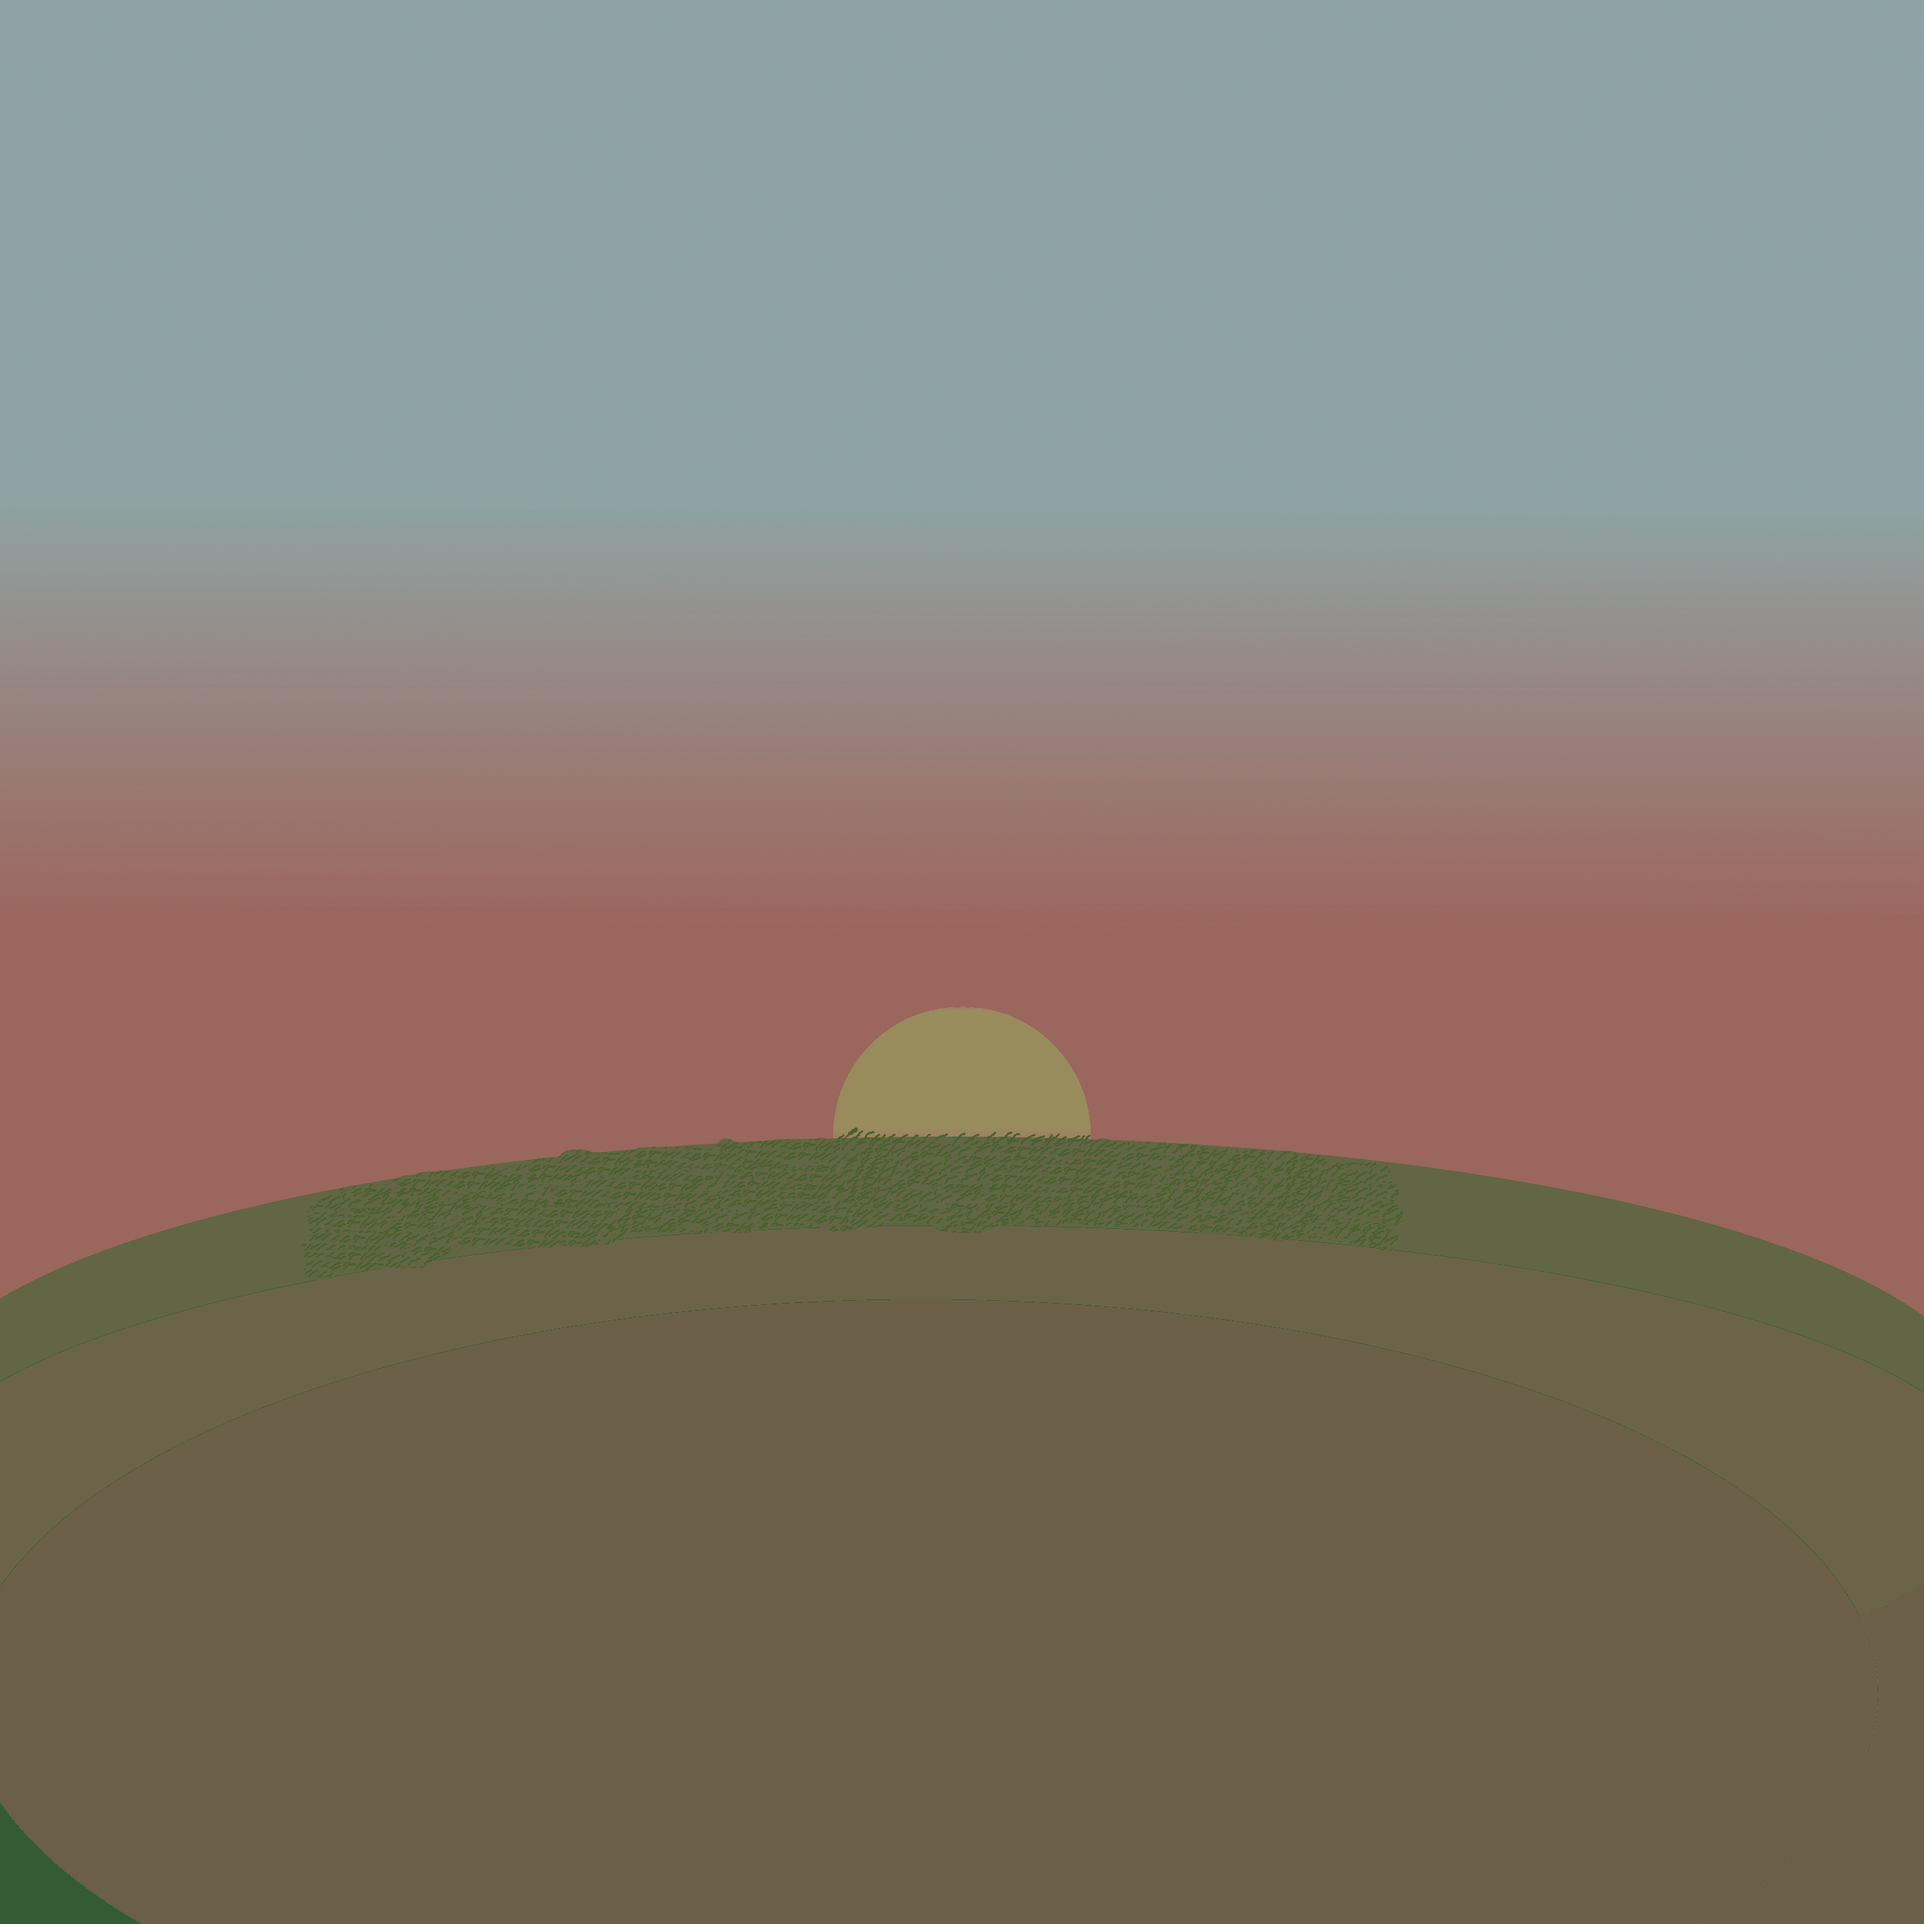
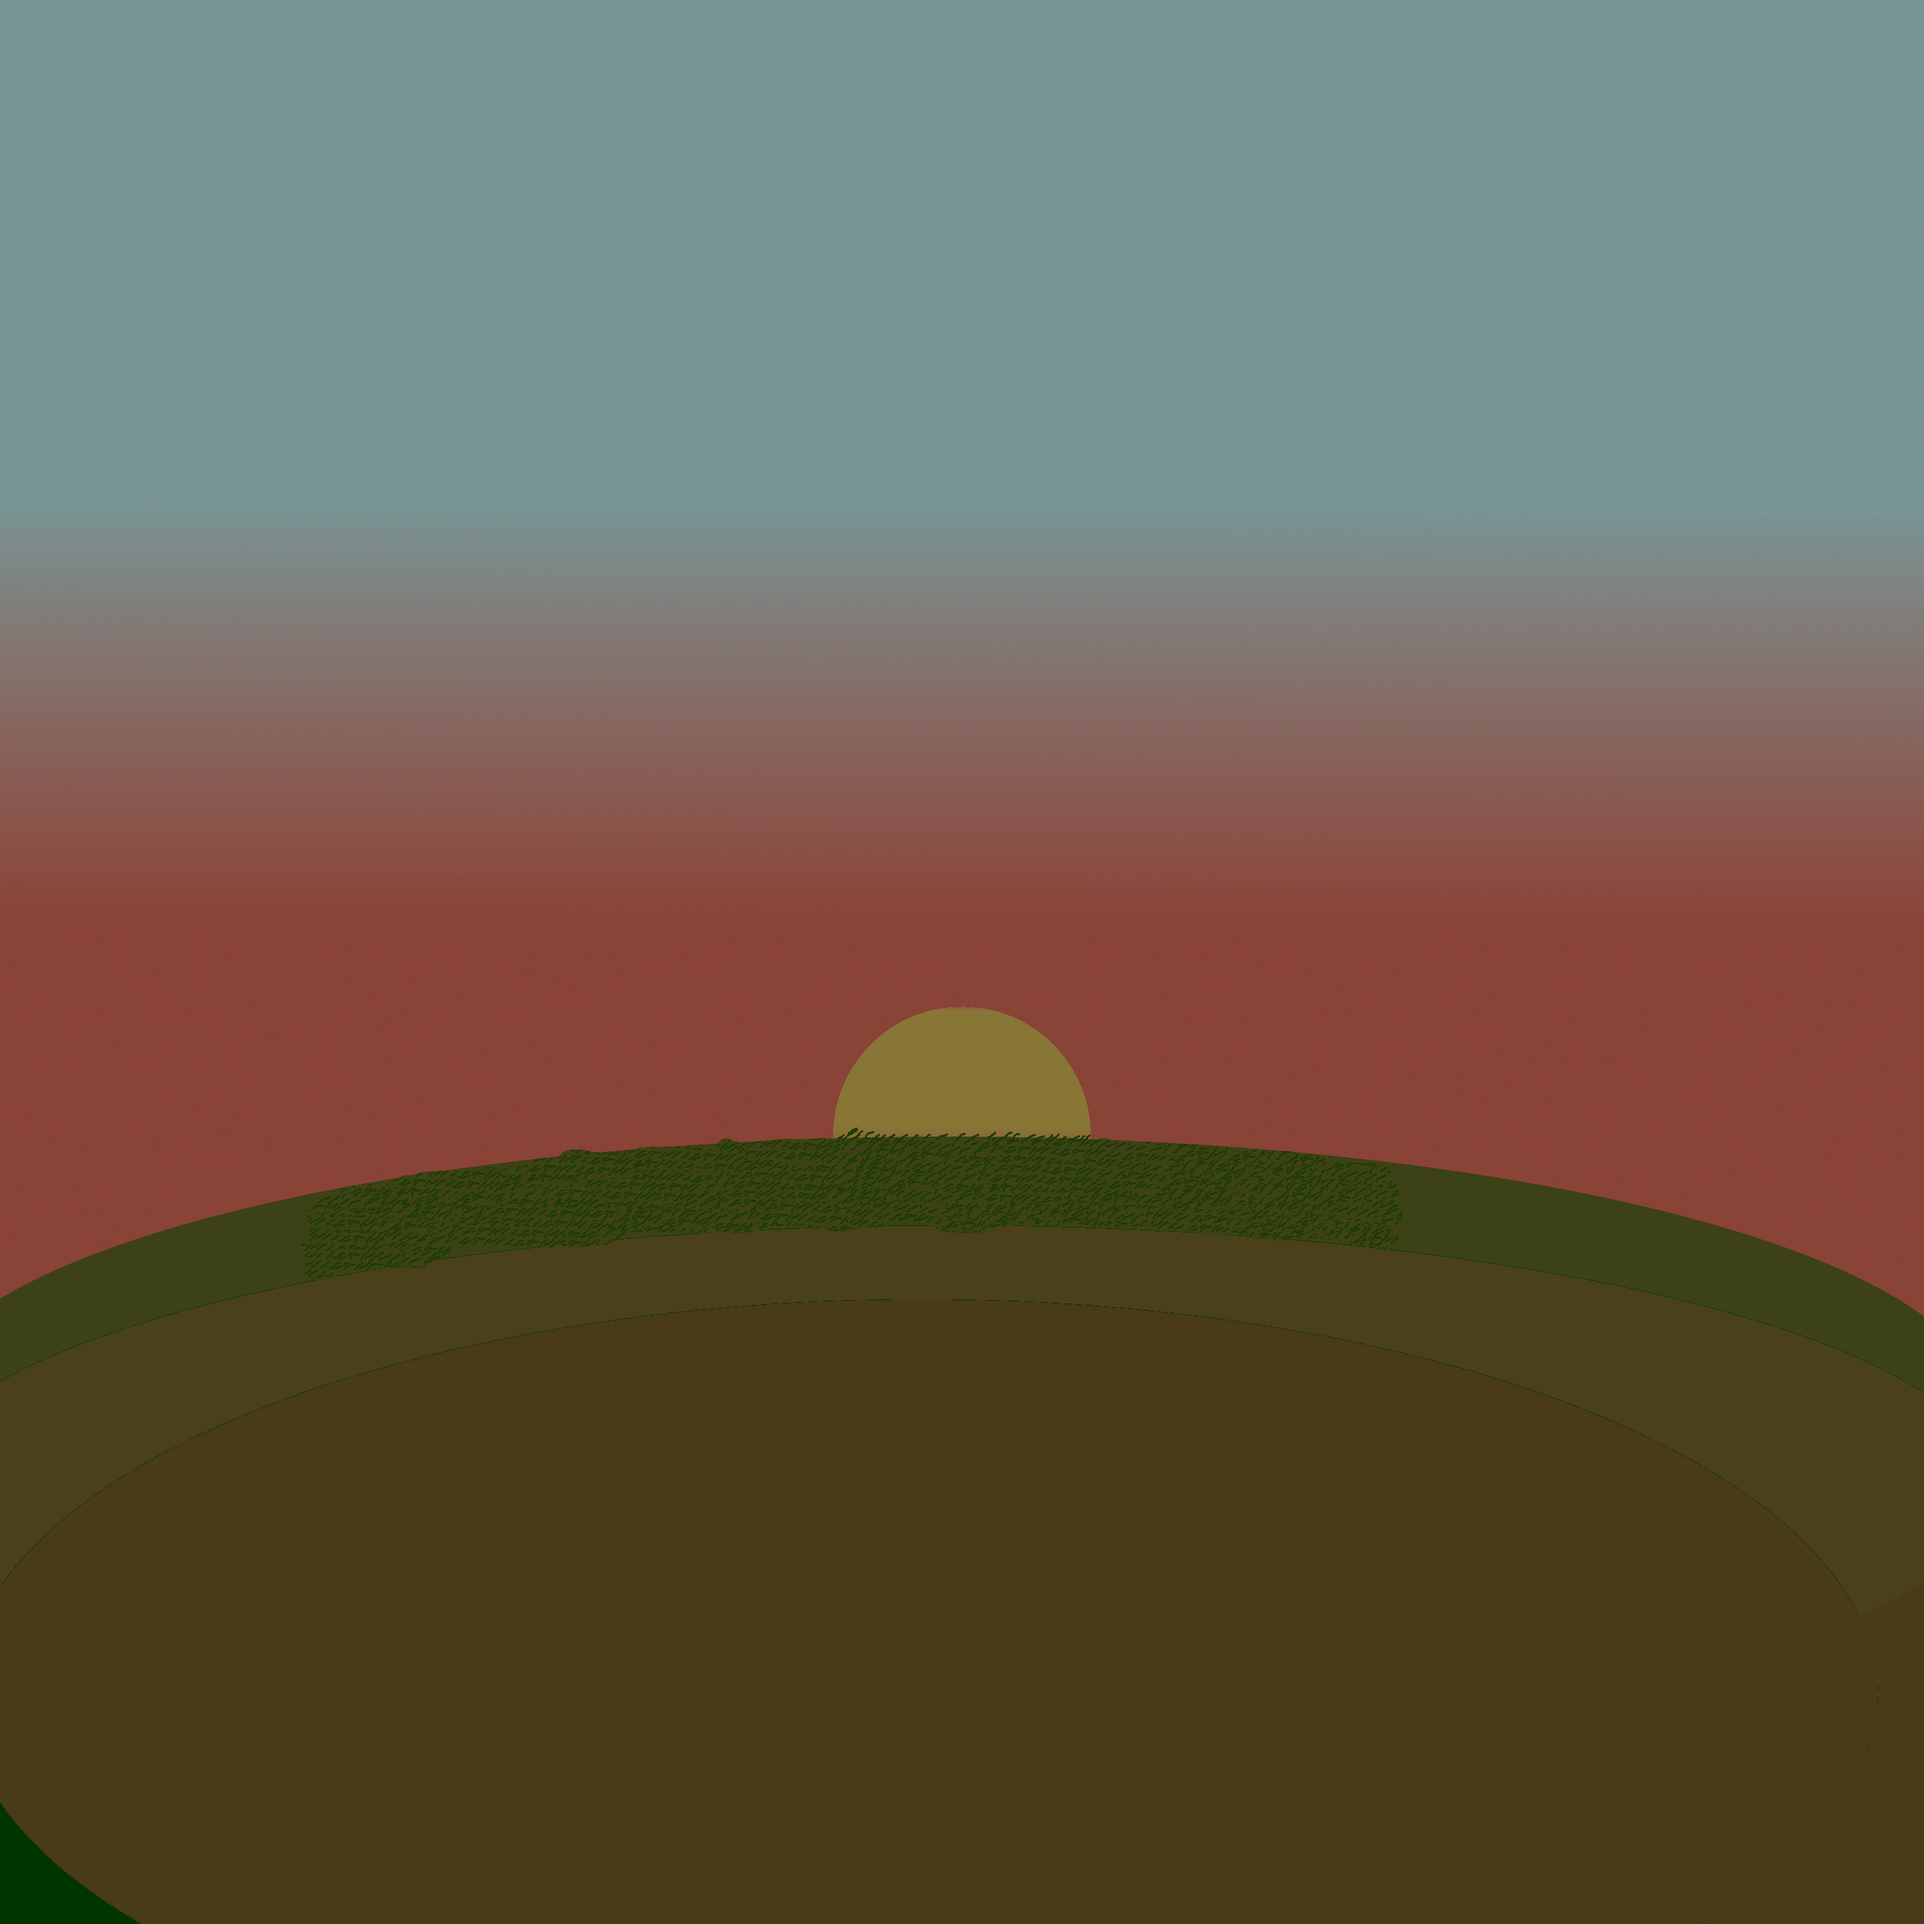
More Color Changes
Finalized the color choices for Sunset Background, and have made preperations for the Day Background

diff --git a/src/theme/variables.scss b/src/theme/variables.scss
@@ -2,16 +2,24 @@
 // http://ionicframework.com/docs/theming/
 
 /** Ionic CSS Variables **/
-
-:root {
-	.ion-color-trans{
-		--ion-color-base: #00000000 !important;
-		--ion-color-base-rgb: 0, 0, 0, 0 !important;
-		--ion-color-contrast: #00000000 !important;
-		--ion-color-contrast-rgb: 0, 0, 0, 0 !important;
-		--ion-color-shade: #00000000 !important;
-		--ion-color-tint: #00000000 !important;
+.ion-color-newWhite{
+		--ion-color-base: #dcdcdc !important;
+		--ion-color-base-rgb: 220, 220, 220 !important;
+		--ion-color-contrast: #dcdcdc !important;
+		--ion-color-contrast-rgb: 220, 220, 220 !important;
+		--ion-color-shade: #cdcdcd !important;
+		--ion-color-tint: #cdcdcd !important;
 	}
+.ion-color-newGreen{
+	--ion-color-base: #526b39 !important;
+	--ion-color-base-rgb: 82, 107, 57 !important;
+	--ion-color-contrast: #dcdcdc !important;
+	--ion-color-contrast-rgb: 220, 220, 220 !important;
+	--ion-color-shade: #cdcdcd !important;
+	--ion-color-tint: #cdcdcd !important;
+	}
+:root {
+	
   /** primary **/
   --ion-color-primary: #3880ff;
   --ion-color-primary-rgb: 56, 128, 255;
@@ -84,11 +92,20 @@
   --ion-color-light-shade: #d7d8da;
   --ion-color-light-tint: #f5f6f9;
   
-  /** trans **/
-  --ion-color-trans: #00000000;
-  --ion-color-trans-rgb: 0, 0, 0, 0;
-  --ion-color-trans-contrast: #00000000;
-  --ion-color-trans-contrast-rgb: 0, 0, 0, 0;
-  --ion-color-trans-shade: #00000000;
-  --ion-color-trans-tint: #00000000;  
+  /** newWhite **/
+  --ion-color-newWhite: #dcdcdc;
+  --ion-color-newWhite-rgb: 220, 220, 220;
+  --ion-color-newWhite-contrast: #dcdcdc;
+  --ion-color-newWhite-contrast-rgb: 220, 220, 220;
+  --ion-color-newWhite-shade: #cdcdcd;
+  --ion-color-newWhite-tint: #cdcdcd;
+  
+  /** newGreen **/
+  --ion-color-newGreen: #526b39;
+	--ion-color-newGreen-rgb: 82, 107, 57;
+	--ion-color-newGreen-contrast: #dcdcdc;
+	--ion-color-newGreen-contrast-rgb: 220, 220, 220;
+	--ion-color-newGreen-shade: #cdcdcd;
+	--ion-color-newGreen-tint: #cdcdcd;
+  
 }

diff --git a/src/app/home/home.page.html b/src/app/home/home.page.html
@@ -1,15 +1,18 @@
 <ion-header>
   <ion-toolbar>
     <ion-buttons slot="start">
-      <ion-menu-button></ion-menu-button>
+     <!-- <ion-menu-button color= "newWhite"></ion-menu-button> -->
+	 <ion-button color="newWhite" (click)="toggleMenu()">
+		<ion-icon name="menu" slot="icon-only"></ion-icon>
+	 </ion-button>
     </ion-buttons>
 	<ion-buttons slot="end">
-		<ion-icon name="add" slot= "icon-only" size="large" [routerLink] = "['/new-motivation']"></ion-icon>
+		<ion-icon name="add" slot= "icon-only" size="large" color= "newWhite" [routerLink] = "['/new-motivation']"></ion-icon>
 	</ion-buttons>
-	<ion-title>
+	<ion-title color= "newWhite">
 		Menu
     </ion-title>
-	<ion-title class = "float-right" [routerLink] = "['/new-motivation']">
+	<ion-title class = "float-right" color= "newWhite" [routerLink] = "['/new-motivation']">
 		New Motivation
 	</ion-title>
   </ion-toolbar>
@@ -42,7 +45,7 @@
 			</ion-col>
 			<ion-col>
 				<ion-button id="Later" color= "warning">Maybe Later...</ion-button>
-				<ion-button id="DidIt" color= "warning">I Did it!</ion-button>
+				<ion-button id="DidIt" color= "newGreen">I Did it!</ion-button>
 			</ion-col>
 		</ion-row>
 	</ion-grid>
@@ -67,7 +70,7 @@
 			</ion-col>
 			<ion-col>
 				<ion-button id="Later" color= "warning">Maybe Later...</ion-button>
-				<ion-button id="DidIt" color= "warning">I Did it!</ion-button>
+				<ion-button id="DidIt" color= "newGreen">I Did it!</ion-button>
 			</ion-col>
 		</ion-row>
 	</ion-grid>
@@ -92,7 +95,7 @@
 			</ion-col>
 			<ion-col>
 				<ion-button id="Later" color= "warning">Maybe Later...</ion-button>
-				<ion-button id="DidIt" color= "warning">I Did it!</ion-button>
+				<ion-button id="DidIt" color= "newGreen">I Did it!</ion-button>
 			</ion-col>
 		</ion-row>
 	</ion-grid>

diff --git a/src/app/home/home.page.scss b/src/app/home/home.page.scss
@@ -12,6 +12,9 @@ ion-toolbar {
 	--background: transparent;
 	--ion-color-base: transparent !important;
 }
+#menu {
+	--color: "newWhite"
+}
 ion-title {
 	padding-top: 4px;
 	font-size: 1em;
@@ -23,7 +26,7 @@ ion-title {
 #MyClockDisplay {
 	font-size: 20vw;
 	text-align: center;
-	color: #424242;
+	color: #dcdcdc;
 	text-shadow: 3px 2px 3px black;
 	margin-top: 35px;
 	margin-bottom: 16px;
@@ -31,7 +34,8 @@ ion-title {
 #Current {
 	font-size: 6.25vw;
 	text-align: center;
-	color: #424242;
+	color: #dcdcdc;
+	text-shadow: 3px 2px 3px black;
 	font-weight: bold;
 	margin-top: 16px;
 }

diff --git a/src/app/home/home.page.ts b/src/app/home/home.page.ts
@@ -1,4 +1,5 @@
 import { Component,  OnInit } from '@angular/core';
+import {MenuController} from '@ionic/angular';
 
 @Component({
   selector: 'app-home',
@@ -6,7 +7,10 @@ import { Component,  OnInit } from '@angular/core';
   styleUrls: ['home.page.scss'],
 })
 export class HomePage implements OnInit{
-	constructor() { }
+	constructor(public menuCtrl: MenuController) {}
+	toggleMenu(){
+		this.menuCtrl.toggle();
+	}
 	ngOnInit() {this.showTime();}
 	showTime(){
 			var date = new Date();
